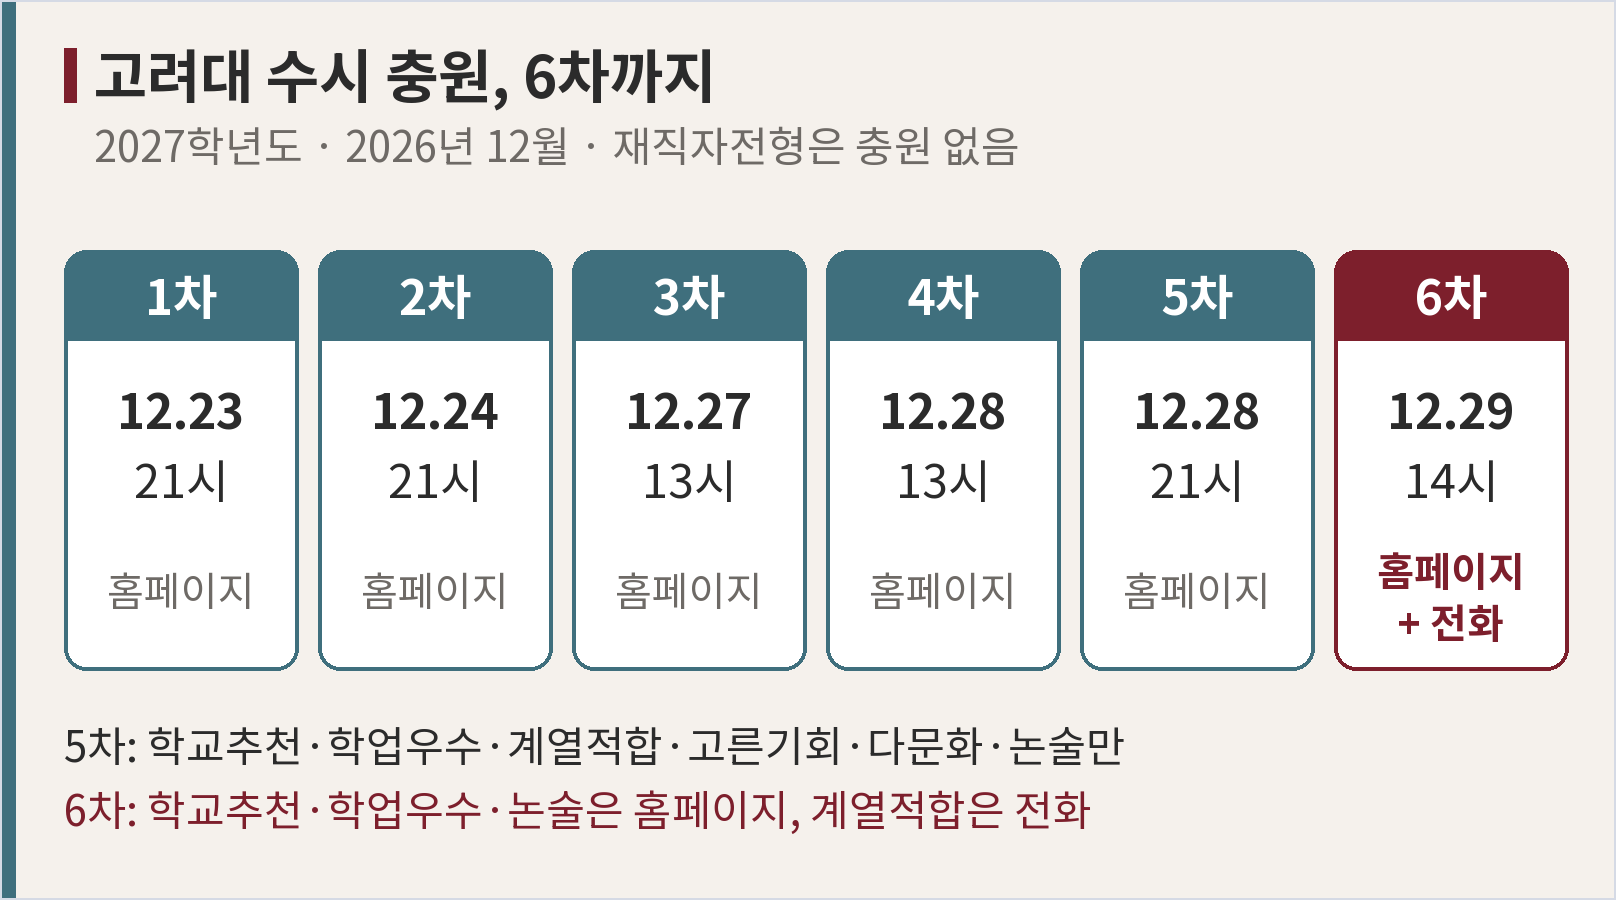
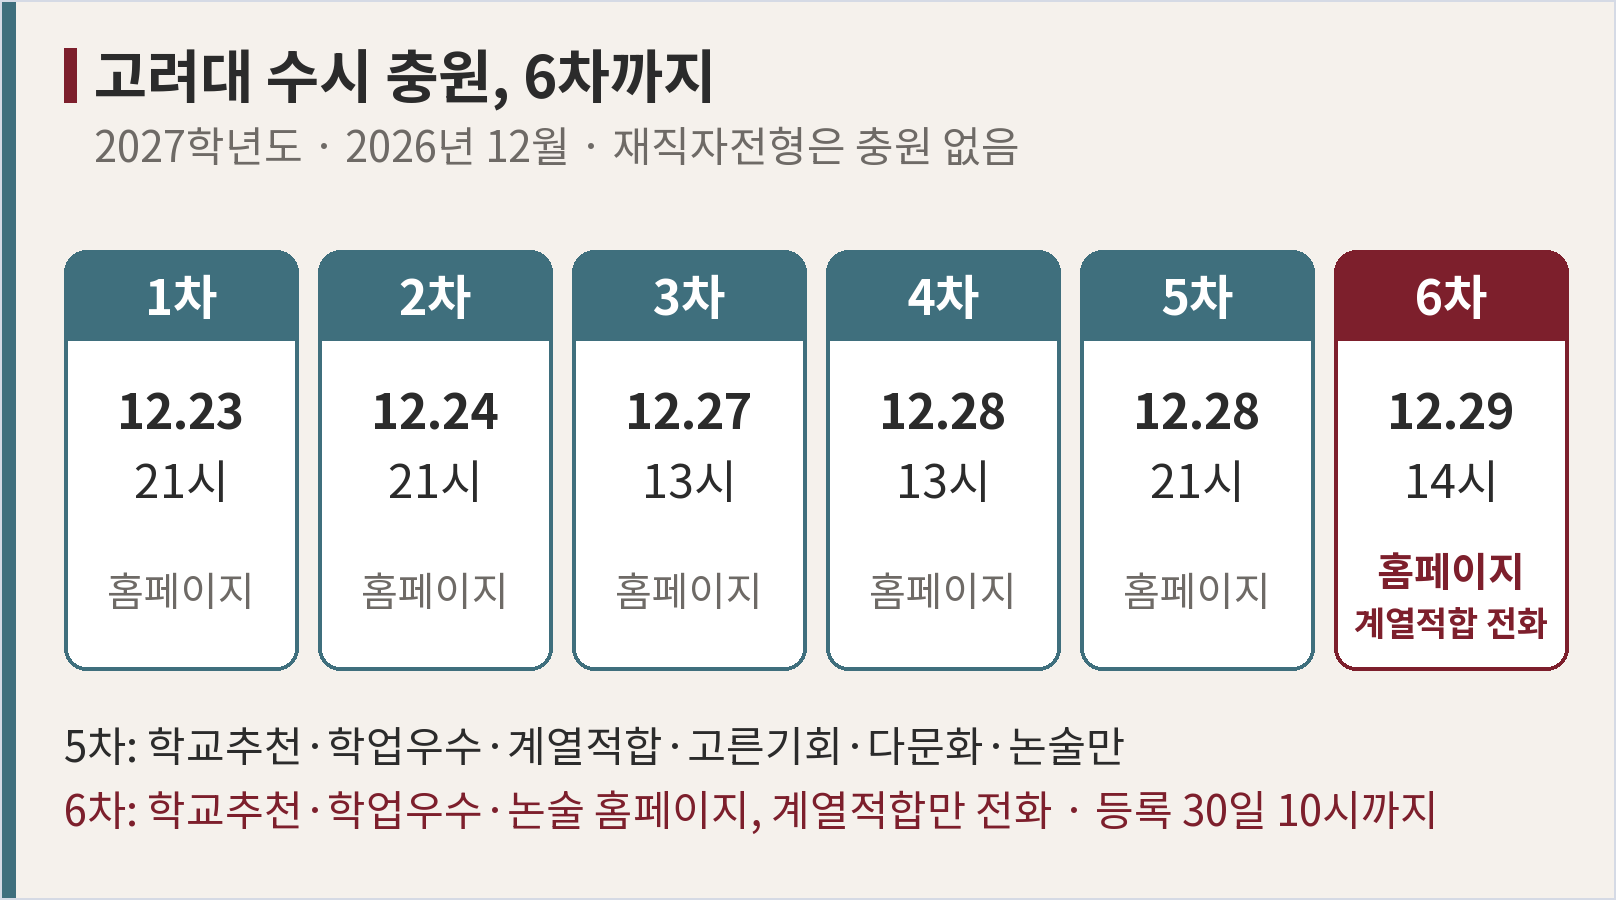
고려대 2027 입시 글: 외부 검수 반영, 그림 08·13 수정
- 소인수 과목 조정등급, 교과평균등급점수·반영점수 구분, 재직자 미이월
- 수시 6차 등록 마감, 정시 일반·교과우수 차이, 출처 수정본 날짜
- 6차 충원 방식 지적은 요강 9쪽 표와 달라 반영하지 않음

Changed region(s): [[0.3713, 0.8711, 0.8973, 0.9333], [0.8354, 0.6533, 0.9592, 0.7156]]

diff --git a/문서/네이버-코딩가이드/20261126_고려대-2027-입시/index.html b/문서/네이버-코딩가이드/20261126_고려대-2027-입시/index.html
@@ -5,7 +5,7 @@
 카테고리: 수능·모의고사
 태그: #고려대입시 #고려대수시 #고려대정시 #2027학년도 #고려대학교추천전형 #고려대학업우수전형 #고려대논술 #고려대경쟁률 #대학입시
 검색 설명: 고려대 2027학년도 수시·정시 모집인원, 전형 방법, 수능최저, 일정, 경쟁률, 충원 차수를 입학처 모집요강 기준으로 정리했습니다.
-글자 수: 본문 공백 포함 10,083자 / 공백 제외 7,962자
+글자 수: 본문 공백 포함 10,391자 / 공백 제외 8,212자
 시리즈: 네이버-코딩가이드-대학입시2027-연재.md 3번 대학. 글자 수 제한 없음(사용자 지시 2026-11-25). 고정 소제목은 '다른 대학과 비교해 보면'(이 글부터).
 [이미지 순서] (도식 디자인: 따뜻한 회백 바탕 #f5f1ec · 짙은 진홍 #7d1f2c · 먹색 · 청회색 #3f6f7d, 형식은 그림마다 다름)
 01 타이틀 1:1 1080 — ChatGPT 적용('고려대 2027 / 입시 총정리', 저녁 책상·모집요강·진홍 파일·12월 달력, 글자 정확, 약 75%·세로 중심 약 50%, 크기만 맞춤)
@@ -27,6 +27,7 @@
  - 2027학년도 수시모집요강(2026.09.08. 수정본), 정시모집요강(2026.09. 수정본, 38쪽), 2028학년도 입학전형시행계획(2026.04.)
  - 수시·정시 '지원율통계' 게시판의 최종경쟁률(2027 수시, 2026 수시·정시)
 [확인하지 못한 것] 고려대 입학처에서 합격선·등록자 성적·충원 인원 자료는 찾지 못함(요강: 입학 전형의 성적 및 평가내용은 공개하지 않음). 요강 모집인원 표에 정원 내·외 구분이 없어 표 합계를 그대로 씀. 정시 탐구 변환점수표는 원서접수 전 공지 예정이라 쓰지 않음. 등록금 일람은 요강에 없어 쓰지 않음.
+[검수 반영 2026-11-26] 소인수 과목 조정등급, 교과평균등급점수(98)와 반영점수(88.2) 구분, 재직자 미이월, 6차 등록 마감 12.30 10시, 정시 일반·교과우수 차이 문장, 출처에 수정본 날짜, 그림 08·13 고침. 검수의 '6차는 학교추천·학업우수·논술 전화, 계열적합 제외'는 요강 9쪽 표(방식 칸 '홈페이지'가 6차 첫 줄까지 이어지고, 6차 둘째 줄 계열적합만 '전화')와 달라 반영하지 않음.
 [발행 후] 입학처 공지에서 일정 변경이 없는지 다시 확인. 링크 자리 줄은 발행 주소로 교체.
 -->
 
@@ -76,7 +77,7 @@
 <p style="font-size:16px;">• 농어촌 120명 이내, 사회배려 69명 이내, 특수교육 36명 이내, 특성화고 25명 이내</p>
 
 <p>&nbsp;</p>
-<p style="font-size:16px;">다만 수시에서 뽑지 못한 인원은 정시 일반전형으로 넘어옵니다.<br>그래서 정시 일반전형 인원은 수시 결과에 따라 늘어날 수 있습니다.</p>
+<p style="font-size:16px;">다만 수시에서 뽑지 못한 인원은 원칙적으로 정시 일반전형으로 넘어옵니다. 재직자전형은 넘기지 않습니다.<br>그래서 정시 일반전형 인원은 수시 결과에 따라 늘어날 수 있습니다.</p>
 <p style="font-size:16px;">요강의 모집인원 표에는 정원 내·외가 따로 나뉘어 있지 않습니다.<br>이 글은 요강 표의 숫자를 그대로 씁니다.</p>
 
 <p>&nbsp;</p>
@@ -117,13 +118,14 @@
 
 <p>&nbsp;</p>
 <h3 style="font-size:18px;margin:24px 0 8px;">◇ 학교추천 교과 점수는 이렇게 계산합니다</h3>
-<p style="font-size:16px;">모든 과목의 석차등급을 이수단위(학점)로 가중평균해 교과평균등급을 냅니다.<br>성취도만 있는 과목은 성취도 분포 비율로 바꾼 등급을 씁니다.</p>
+<p style="font-size:16px;">과목별 석차등급(성취도만 있는 과목은 성취도 분포 비율로 바꾼 변환석차등급)을 이수단위(학점)로 가중평균해 교과평균등급을 냅니다.</p>
+<p style="font-size:16px;">다만 석차등급이 적힌 과목 중 수강자가 12명 이하인 소인수 과목은 등급을 조정해서 씁니다.<br>예를 들어 수강자 3명인 과목에서 5등급이면 2를 빼 3등급으로 반영한다고 요강에 적혀 있습니다.</p>
 <p style="font-size:16px;">그다음 등급별 반영점수로 바꿉니다.</p>
 <p style="font-size:16px;">• 1등급 100점, 2등급 96점, 3등급 92점, 4등급 86점, 5등급 70점</p>
 <p style="font-size:16px;">• 등급 사이는 두 점수 사이를 나눠 계산합니다.</p>
 
 <p>&nbsp;</p>
-<p style="font-size:16px;">예를 들어 교과평균등급이 1.5라면 1등급(100점)과 2등급(96점)의 가운데라서 98점입니다.<br>여기에 0.9를 곱한 88.2점이 학생부(교과) 반영점수가 됩니다.</p>
+<p style="font-size:16px;">예를 들어 교과평균등급이 1.5라면 1등급(100점)과 2등급(96점)의 가운데인 98점이 교과평균등급점수입니다.<br>여기에 0.9를 곱한 88.2점이 최종 학생부(교과) 반영점수입니다.</p>
 <p style="font-size:16px;">1.0등급과 2.0등급의 차이가 4점뿐이라, 이 구간에서는 교과 성적 차이가 생각보다 작게 벌어집니다.<br>실제 계산 예시는 고려대 입학처 홈페이지에 따로 올라와 있다고 요강에 적혀 있습니다.</p>
 
 <p>&nbsp;</p>
@@ -178,11 +180,11 @@
 <p style="font-size:16px;color:#e60000;font-weight:bold;">[[ 이미지: 수시 충원 차수 (08-수시-충원.png) ]]</p>
 <p style="font-size:16px;">• 1차 12월 23일 21시, 2차 24일 21시, 3차 27일 13시, 4차 28일 13시: 홈페이지 발표</p>
 <p style="font-size:16px;">• 5차 28일 21시: 학교추천·학업우수·계열적합·고른기회·다문화·논술만</p>
-<p style="font-size:16px;">• 6차 29일 14시: 학교추천·학업우수·논술은 홈페이지, 계열적합은 전화</p>
+<p style="font-size:16px;">• 6차 29일 14시: 학교추천·학업우수·논술은 홈페이지, 계열적합은 전화 개별 통보(등록 마감 30일 10시)</p>
 
 <p>&nbsp;</p>
 <p style="font-size:16px;">충원 등록 마감이 차수마다 짧습니다. 4차는 발표 4시간 뒤인 28일 17시까지입니다.<br>재직자전형은 충원을 하지 않습니다.</p>
-<p style="font-size:16px;">전화 충원은 발표 당일 18시까지 하고, 원서에 적은 연락처로 최대 3회 통화를 시도합니다.<br>연락이 안 되면 등록 의사가 없는 것으로 보고 다음 순위로 넘어간다고 요강에 적혀 있습니다.</p>
+<p style="font-size:16px;">계열적합 6차 전화 통보는 12월 29일 18시까지 하고, 원서에 적은 연락처로 최대 3회 통화를 시도합니다.<br>연락이 안 되면 등록 의사가 없는 것으로 보고 추가 충원 대상에서 뺀다고 요강에 적혀 있습니다.</p>
 <p style="font-size:16px;">다른 대학으로 옮기려면 12월 29일 10시까지 고려대 입학처 홈페이지에서 등록 포기를 신청해야 합니다.<br>수시에 합격하면(충원 포함) 등록 여부와 관계없이 정시·추가모집에 지원할 수 없습니다.</p>
 
 <p>&nbsp;</p>
@@ -196,6 +198,8 @@
 <p style="font-size:16px;">• 사이버국방학과: 수능 80% + 군 면접·체력검정 등 20%</p>
 
 <p>&nbsp;</p>
+<p style="font-size:16px;">일반전형은 수능 성적만으로, 교과우수전형은 수능과 학생부 교과 성적을 함께 봅니다.<br>그래서 수능 점수가 비슷해도 교과 성적에 따라 두 전형의 유불리가 달라질 수 있습니다.</p>
+
 <p style="font-size:16px;">교과우수전형은 2018학년도 졸업자(2019년 2월 졸업)부터 지원할 수 있습니다.<br>국내 고등학교 6학기 성적이 있어야 하고, 학교추천과 비슷하게 일부 학교 유형은 지원할 수 없습니다.</p>
 
 <p>&nbsp;</p>
@@ -314,7 +318,7 @@
 <p>&nbsp;</p>
 <h3 style="font-size:18px;margin:24px 0 8px;">◇ 이 글에 모은 자료, 원문은 여기에</h3>
 <p style="font-size:16px;">이 글의 숫자는 아래 자료에서 가져왔습니다. 모두 고려대 입학처 홈페이지(oku.korea.ac.kr) 서울캠퍼스에서 볼 수 있습니다.</p>
-<p style="font-size:16px;">• <b>수시·정시 모집요강</b>: 수시 → 모집요강, 정시 → 모집요강 (공지사항에도 첨부)</p>
+<p style="font-size:16px;">• <b>수시·정시 모집요강</b>: 2027학년도 수시모집요강(2026.09.08. 수정본), 정시모집요강(2026.09. 수정본). 수시·정시 → 모집요강, 공지사항에도 첨부</p>
 <p style="font-size:16px;">• <b>경쟁률</b>: 수시 → 지원율통계, 정시 → 지원율통계 (2018학년도부터)</p>
 <p style="font-size:16px;">• <b>교과점수 산출 예시</b>: 입학처 홈페이지(요강에 '홈페이지 참조'로 안내)</p>
 <p style="font-size:16px;">• <b>2028학년도 변경 내용</b>: 공지사항의 「2028학년도 고려대학교 입학전형시행계획」</p>

diff --git a/네이버-코딩가이드-대학입시2027-연재.md b/네이버-코딩가이드-대학입시2027-연재.md
@@ -154,3 +154,4 @@
   - 자료 찾는 법(고려대): 입학처(oku.korea.ac.kr) 서울캠퍼스 통합 공지사항의 요강 첨부(`/ajaxfile/FR_SVC/FileDown.do?GBN=X01&BOARD_SEQ=5&SITE_NO=2&BBS_SEQ=번호&FILE_SEQ=2`, curl에 Referer), 수시·정시 '지원율통계' 게시판(목록이 몇 초 늦게 그려짐, 링크는 data-link 속성 → ratio.uwayapply.com). 고려대는 합격선·등록자 성적·충원 인원을 공개하지 않는다(요강 '입학 전형의 성적 및 평가내용은 공개하지 않음'). 그래서 입시 결과는 경쟁률만 썼다.
   - 계산 예시: 학교추천 교과평균 1.5등급 → 98점 × 0.9 = 88.2점, 정시 자연(가정) 국 130 + 수 140×1.2 + 과탐 변환 130×1.03 = 431.9 → ÷640×1000 = 674.8 → 영어 2등급 −3 = 671.8.
   - 이미지 14장: AI 02~13·배너 14(따뜻한 회백·진홍·청회색·모래색, 스크립트 scratchpad/ku_img.py — 세션 scratchpad), ChatGPT 01 타이틀('고려대 2027 / 입시 총정리') 요청 중.
+- 2026-11-26: 고려대 외부 검수 반영. 소인수 과목(12명 이하) 조정등급, 교과평균등급점수와 반영점수 구분, 재직자 미이월, 6차 등록 마감, 정시 일반·교과우수 차이, 출처 수정본 날짜, 그림 08(6차 등록 마감·계열적합만 전화)·13(서울대 탐구 2과목 평균). 검수의 '6차는 전화로 학교추천·학업우수·논술, 계열적합 제외'는 요강 9쪽 표 원문(확대해 확인: 방식 칸 '홈페이지'가 6차 첫 줄까지, 6차 둘째 줄 계열적합만 '전화')과 달라 반영하지 않음. **요강 표의 합친 칸(방식 등)은 글자 추출로 판단하지 말고 쪽을 그림으로 확대해 행 경계를 본다.**
